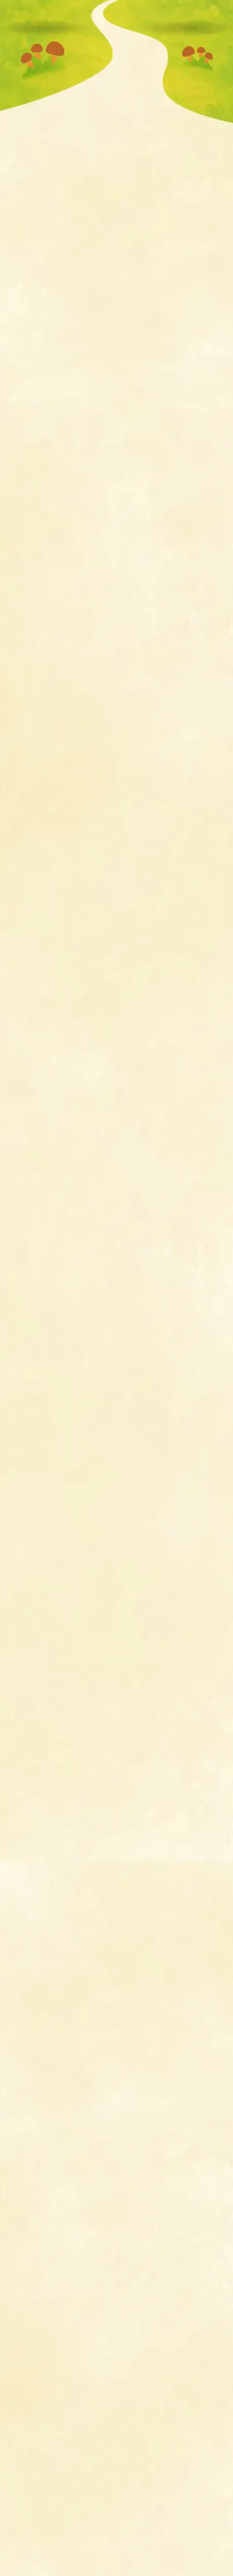
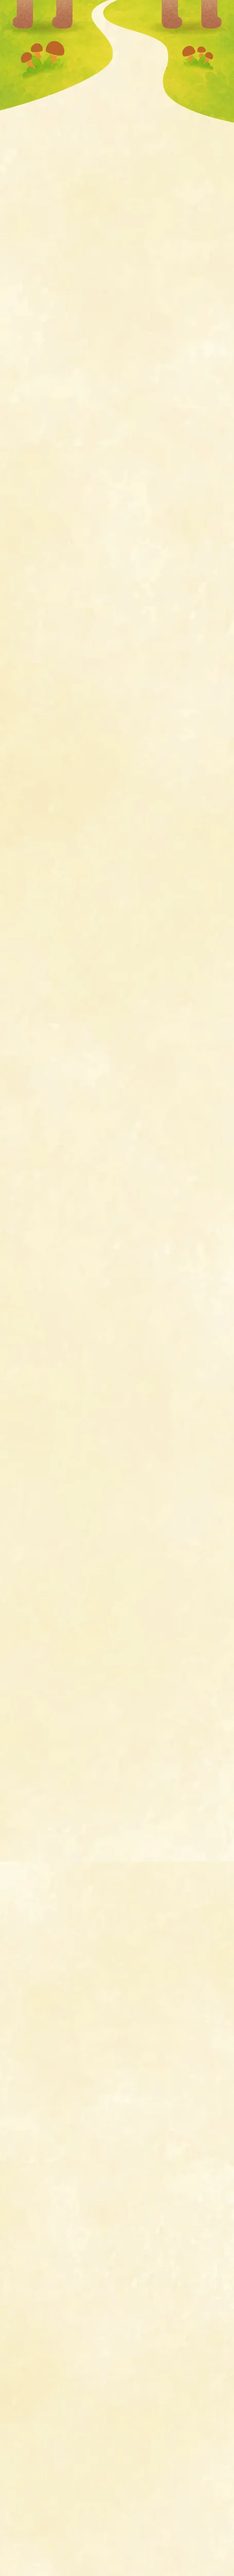
no message

diff --git a/tsubasa_thema/sass/global/_header.scss b/tsubasa_thema/sass/global/_header.scss
@@ -231,15 +231,15 @@
               transform: translateY(-50%);
 
               @include nav-pc {
-                @include imgContain('header/accordion-open-pc.svg');
-                width: pm(17);
-                right: pm(12);
+                // @include imgContain('header/accordion-open-pc.svg');
+                // width: pm(17);
+                // right: pm(12);
               }
 
               @include nav-sp {
-                @include imgContain('header/accordion-open-sp.svg');
-                width: s(17);
-                right: s(12);
+                // @include imgContain('header/accordion-open-sp.svg');
+                // width: s(17);
+                // right: s(12);
               }
             }
           }
@@ -249,15 +249,15 @@
               &::after {
 
                 @include nav-pc {
-                  @include imgContain('header/accordion-close-pc.svg');
-                  width: pm(18);
-                  height: pm(2);
+                  // @include imgContain('header/accordion-close-pc.svg');
+                  // width: pm(18);
+                  // height: pm(2);
                 }
 
                 @include nav-sp {
-                  @include imgContain('header/accordion-close-sp.svg');
-                  width: s(17);
-                  height: s(2);
+                  // @include imgContain('header/accordion-close-sp.svg');
+                  // width: s(17);
+                  // height: s(2);
                 }
               }
             }
@@ -414,10 +414,12 @@
     }
 
     @include nav-sp {
-      position: absolute;
-      top: 50%;
-      transform: translateY(-50%);
-      left: s(20);
+      position: fixed;
+      // top: 50%;
+      // transform: translateY(-50%);
+      bottom: s(20);
+      left: 50%;
+      transform: translateX(-1930%);
       z-index: 2;
       width: s(9);
     }

diff --git a/tsubasa_thema/sass/page/_about.scss b/tsubasa_thema/sass/page/_about.scss
@@ -137,7 +137,7 @@
     }
 
     .about-greeting {
-      padding: s(165) 0 s(213);
+      padding: s(165) 0 s(284);
       position: relative;
       z-index: 3;
       // @include imgCover('about/about-greeting-bg.webp');
@@ -152,11 +152,21 @@
         height: 100%;
         z-index: 2;
 
-        img {
+        .about-greeting-bg-img {
           width: 100%;
           height: 100%;
-          object-fit: cover;
+          object-fit: fill;
           object-position: center top;
+          position: relative;
+          z-index: 2;
+        }
+
+        .about-greeting-bg-char {
+          position: absolute;
+          bottom: s(34);
+          left: 0;
+          width: 100%;
+          z-index: 1;
         }
       }
 
@@ -255,14 +265,6 @@
           }
         }
       }
-
-      .about-greeting-bg-char {
-        position: absolute;
-        bottom: sm(-30);
-        left: 0;
-        width: 100%;
-        z-index: 1;
-      }
     }
   }
 
@@ -271,6 +273,7 @@
     background-position: center top;
     padding: s(101) 0 s(207);
     position: relative;
+    margin-top: sm(-64);
 
     .about-features-slider {
       margin-top: s(110);

diff --git a/tsubasa_thema/js/script.js b/tsubasa_thema/js/script.js
@@ -14,6 +14,15 @@ $(function () {
 		$(this).toggleClass("is-active");
 	});
 
+	// #front-services で飛んできた場合、診療案内アコーディオンを開く
+	function activateServicesMenuByHash() {
+		if (window.location.hash === "#front-services") {
+			$('.main-list-item-accordion > a[href$="#front-services"]').parent().addClass("is-active");
+		}
+	}
+	activateServicesMenuByHash();
+	$(window).on("hashchange", activateServicesMenuByHash);
+
 	// コンテンツボックスのアコーディオン
 	$(".C_contents_box-accordion .accordion-ttl").on("click", function () {
 		$(this).parent().toggleClass("is-active");

diff --git a/tsubasa_thema/style.css b/tsubasa_thema/style.css
@@ -3,7 +3,7 @@ Theme Name: tsubasa_thema
 Theme URL:
 Description:
 Author:Ryuuuuu
-Version:1.0.8
+Version:1.0.9
 License:
 License URI:
 */

diff --git a/tsubasa_thema/pages/page-about.php b/tsubasa_thema/pages/page-about.php
@@ -34,7 +34,7 @@ Template Path: pages/
           <img src="<?php echo get_template_directory_uri(); ?>/img/about/about-kv-char-04.webp" alt="">
         </div>
       </div>
-      <div class="about-kv-txt">
+      <div class="about-kv-txt" id="about-kv-txt">
         <h2 class="TL">
           <img src="<?php echo get_template_directory_uri(); ?>/img/front/front-abput-ttl.svg" alt="見守りの森">
         </h2>
@@ -56,7 +56,10 @@ Template Path: pages/
     </section>
     <section class="about-greeting" id="about-greeting">
       <div class="about-greeting-bg">
-        <img src="<?php echo get_template_directory_uri(); ?>/img/about/about-greeting-bg.webp" alt="">
+        <img class="about-greeting-bg-img" src="<?php echo get_template_directory_uri(); ?>/img/about/about-greeting-bg.webp" alt="">
+        <div class="about-greeting-bg-char">
+          <img src="<?php echo get_template_directory_uri(); ?>/img/about/about-kv_greeting-bg-char.webp" alt="">
+        </div>
       </div>
       <div class="about-greeting-inr">
         <div class="about-greeting-ttl">
@@ -117,8 +120,6 @@ Template Path: pages/
                 日本小児外科学会 小児外科専門医
               </li>
               <li class="TX">
-              </li>
-              <li class="TX">
                 日本外科学会 外科専門医
               </li>
               <li class="TX">
@@ -144,9 +145,6 @@ Template Path: pages/
             </ul>
           </div>
         </div>
-      </div>
-      <div class="about-greeting-bg-char">
-        <img src="<?php echo get_template_directory_uri(); ?>/img/about/about-kv_greeting-bg-char.webp" alt="">
       </div>
     </section>
   </div>
@@ -239,7 +237,7 @@ Template Path: pages/
       </div>
     </div>
   </section>
-<!-- 
+  <!-- 
   <section class="about-introduction" id="about-introduction">
     <div class="about-introduction-ttl">
       <div class="C_front-ttl">

diff --git a/tsubasa_thema/inc/header-menu-inr.php b/tsubasa_thema/inc/header-menu-inr.php
@@ -5,10 +5,10 @@
         <a class="TX" href="<?php echo home_url(); ?>">TOP</a>
       </li>
       <li class="main-list-item main-list-item-accordion <?php if (is_page('about')): ?>is-active<?php endif; ?>">
-        <p class="TX">当院について</p>
+        <a class="TX" href="/about">当院について</a>
         <ul class="main-list-inr">
           <li class="main-list-item-inr">
-            <a class="TX-inr" href="/about">見守りの森</a>
+            <a class="TX-inr" href="/about#about-kv-txt">見守りの森</a>
           </li>
           <li class="main-list-item-inr">
             <a class="TX-inr" href="/about#about-greeting">あいさつ</a>
@@ -22,7 +22,7 @@
         </ul>
       </li>
       <li class="main-list-item main-list-item-accordion <?php if (is_page('pediatric-surgery') || is_page('pediatrics') || is_page('constipation') || is_page('nocturia') || is_page('prevention-screening') || is_page('home-visit')): ?>is-active<?php endif; ?>">
-        <p class="TX">診療案内</p>
+        <a class="TX" href="<?php echo home_url(); ?>#front-services">診療案内</a>
         <ul class="main-list-inr">
           <li class="main-list-item-inr">
             <a class="TX-inr" href="/pediatric-surgery">小児外科</a>

diff --git a/tsubasa_thema/inc/footer.php b/tsubasa_thema/inc/footer.php
@@ -24,6 +24,12 @@
       <?php if (is_page('constipation')): ?>
         <img src="<?php echo get_template_directory_uri(); ?>/img/footer/page_by_constipation.webp" alt="">
       <?php endif; ?>
+      <?php if (is_page('pediatrics')): ?>
+        <img src="<?php echo get_template_directory_uri(); ?>/img/footer/page_by_pediatrics.webp" alt="">
+      <?php endif; ?>
+      <?php if (is_page('home-visit')): ?>
+        <img src="<?php echo get_template_directory_uri(); ?>/img/footer/page_by_home-visit.webp" alt="">
+      <?php endif; ?>
       <?php if (is_archive('news')): ?>
         <img src="<?php echo get_template_directory_uri(); ?>/img/footer/page_by_news.webp" alt="">
       <?php endif; ?>

diff --git a/tsubasa_thema/front-page.php b/tsubasa_thema/front-page.php
@@ -116,7 +116,7 @@
         </div> -->
       </section>
     </div>
-    <div class="front-services_about">
+    <div class="front-services_about" id="front-services">
       <div class="front-services_about-char">
         <img src="<?php echo get_template_directory_uri(); ?>/img/front/front-services_about-char.webp" alt="">
       </div>
